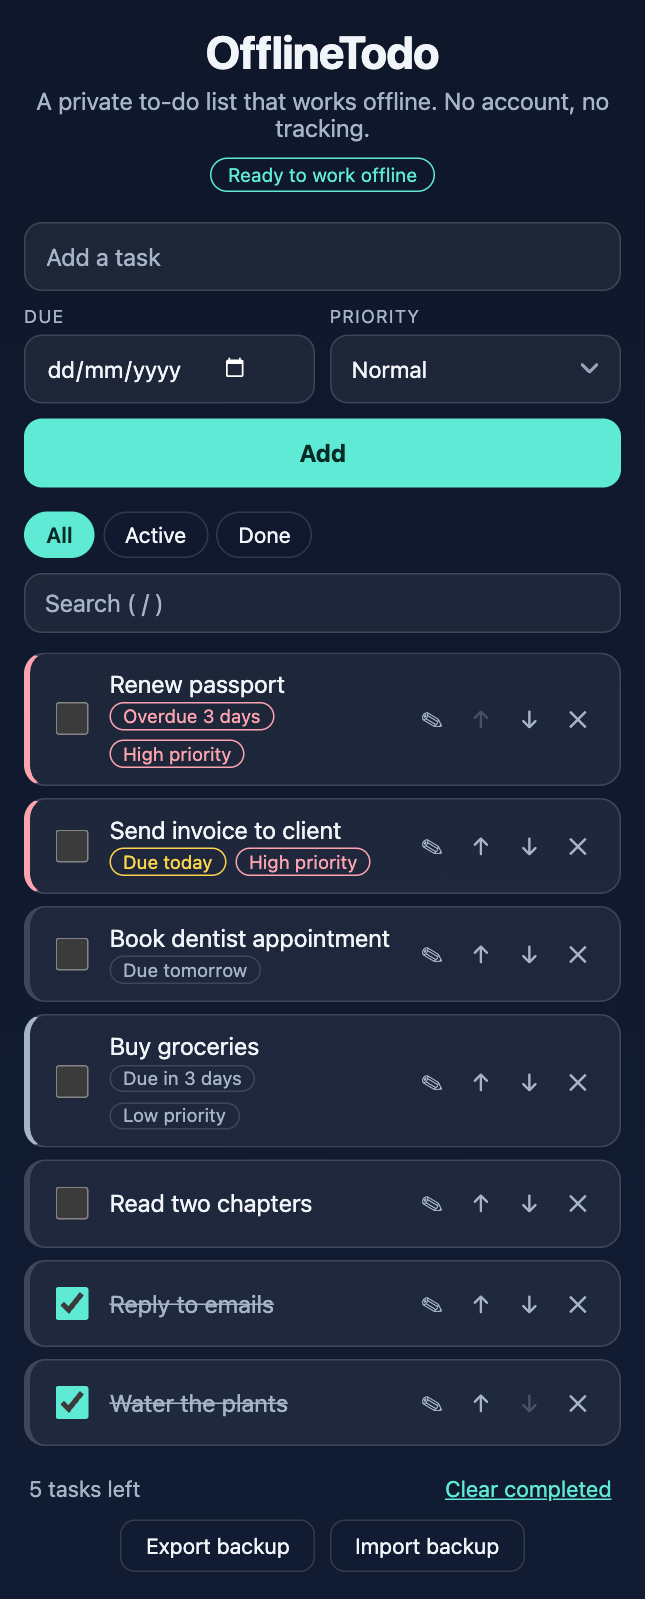
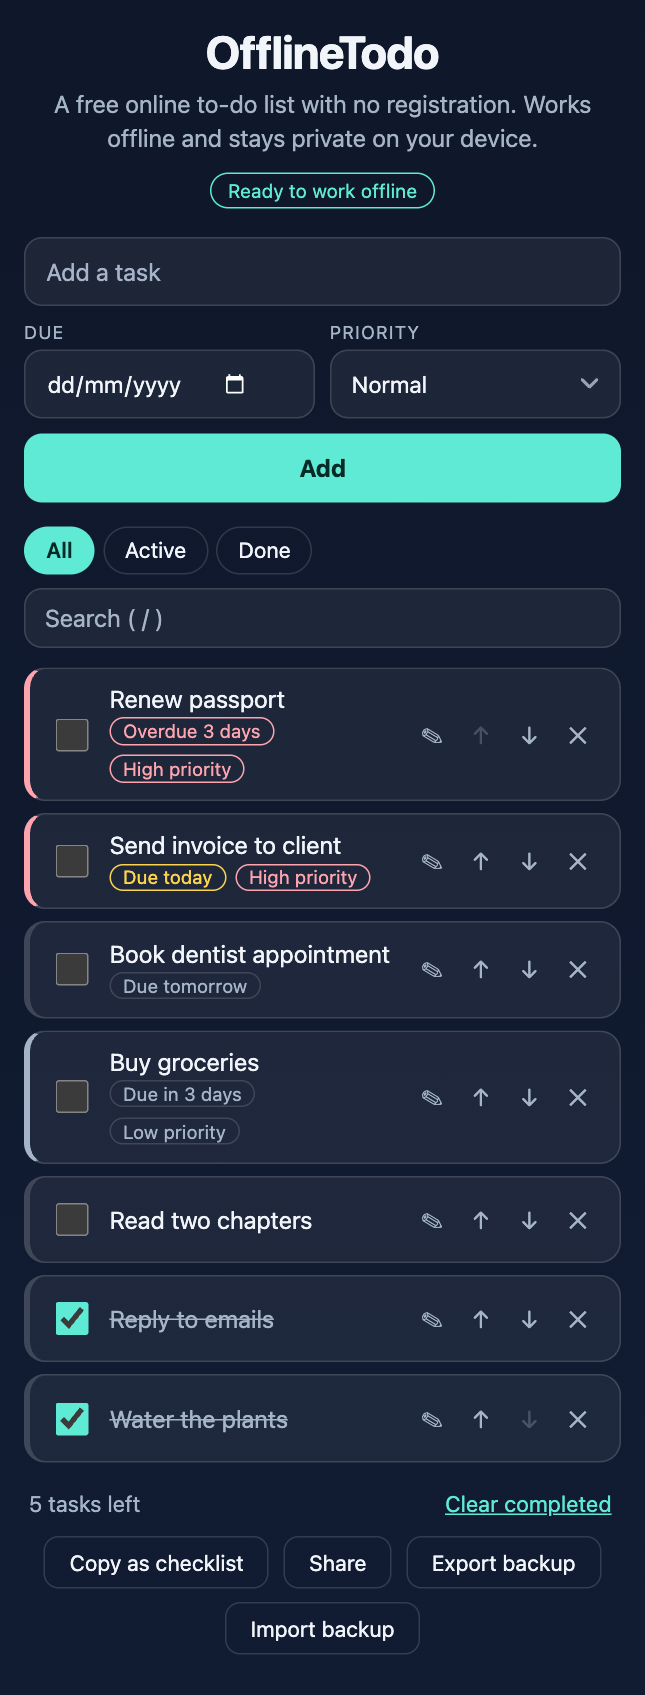
Add Copy as checklist and Share; keyword-focused title, tagline, FAQ and structured data

diff --git a/index.html b/index.html
@@ -4,8 +4,8 @@
 <head>
     <meta charset="UTF-8">
     <meta name="viewport" content="width=device-width, initial-scale=1.0">
-    <title>OfflineTodo: Private To-Do List That Works Offline</title>
-    <meta name="description" content="A free to-do list that works offline and keeps your tasks private on your device. No account, no ads, no tracking. Due dates, priorities, backup and install.">
+    <title>Free To-Do List, No Registration, Works Offline | OfflineTodo</title>
+    <meta name="description" content="Free online to-do list with no registration. Works offline and keeps your tasks private on your device. Due dates, priorities, backup and share. No ads.">
     <link rel="canonical" href="https://umar8092.github.io/offlinetodo/">
     <link rel="icon" href="favicon.svg" type="image/svg+xml">
     <link rel="apple-touch-icon" href="icons/apple-touch-icon.png">
@@ -15,13 +15,13 @@
     <meta property="og:site_name" content="OfflineTodo">
     <meta property="og:locale" content="en_US">
     <meta property="og:url" content="https://umar8092.github.io/offlinetodo/">
-    <meta property="og:title" content="OfflineTodo: Private To-Do List That Works Offline">
-    <meta property="og:description" content="A free to-do list that works offline and keeps your tasks private on your device. No account, no ads, no tracking.">
+    <meta property="og:title" content="Free To-Do List, No Registration, Works Offline | OfflineTodo">
+    <meta property="og:description" content="A free online to-do list with no registration. Works offline and keeps your tasks private on your device. No ads, no tracking.">
     <meta property="og:image" content="https://umar8092.github.io/offlinetodo/screenshots/social.png">
     <meta property="og:image:alt" content="OfflineTodo: a private to-do list with tasks, due dates and priorities">
     <meta name="twitter:card" content="summary_large_image">
-    <script type="application/ld+json">{"@context":"https://schema.org","@type":"WebApplication","name":"OfflineTodo","alternateName":["OfflineTodo Private To-Do List","Offline To-Do List"],"url":"https://umar8092.github.io/offlinetodo/","description":"A free to-do list that works offline and keeps tasks private on your device, with due dates, priorities, search, backup and import.","applicationCategory":"ProductivityApplication","operatingSystem":"Any","browserRequirements":"Requires a modern browser","isAccessibleForFree":true,"keywords":"offline to-do list, private to-do list, to-do list no account, local task list, installable to-do app, task list that works offline","offers":{"@type":"Offer","price":"0","priceCurrency":"USD"},"license":"https://opensource.org/licenses/MIT","author":{"@type":"Person","name":"Muhammad Umar","url":"https://github.com/umar8092"}}</script>
-    <script type="application/ld+json">{"@context":"https://schema.org","@type":"FAQPage","mainEntity":[{"@type":"Question","name":"Does this to-do list work without internet?","acceptedAnswer":{"@type":"Answer","text":"Yes. After the first visit the app is saved in your browser, so it opens and works with no connection. You can add, edit and finish tasks offline."}},{"@type":"Question","name":"Where are my tasks stored?","acceptedAnswer":{"@type":"Answer","text":"Only on your own device, in your browser's local storage. Nothing is sent to a server, and there is no account, no sign-up and no tracking."}},{"@type":"Question","name":"Can I install it on my phone or computer?","acceptedAnswer":{"@type":"Answer","text":"Yes. In Chrome, Edge or Safari, use the browser's install or Add to Home Screen option. It then opens like a normal app and works offline."}},{"@type":"Question","name":"How do I back up my tasks or move them to another device?","acceptedAnswer":{"@type":"Answer","text":"Use Export to save your tasks as a file, then use Import on the other device. Because tasks live only on your device, a backup file is the way to move or protect them."}},{"@type":"Question","name":"What happens if I clear my browser data?","acceptedAnswer":{"@type":"Answer","text":"Your tasks are deleted along with it, because they are stored in the browser. Export a backup now and then to be safe."}},{"@type":"Question","name":"Is OfflineTodo free?","acceptedAnswer":{"@type":"Answer","text":"Yes. It is free and open source under the MIT license, with no ads."}}]}</script>
+    <script type="application/ld+json">{"@context":"https://schema.org","@type":"WebApplication","name":"OfflineTodo","alternateName":["OfflineTodo Free Online To-Do List","Offline To-Do List","To-Do List No Registration"],"url":"https://umar8092.github.io/offlinetodo/","description":"A free online to-do list with no registration. Works offline and keeps tasks private on your device, with due dates, priorities, search, backup, import and share.","applicationCategory":"ProductivityApplication","operatingSystem":"Any","browserRequirements":"Requires a modern browser","isAccessibleForFree":true,"keywords":"free online to-do list, to-do list no registration, offline to-do list, private to-do list, to-do list no account, installable to-do app, checklist maker","offers":{"@type":"Offer","price":"0","priceCurrency":"USD"},"license":"https://opensource.org/licenses/MIT","author":{"@type":"Person","name":"Muhammad Umar","url":"https://github.com/umar8092"}}</script>
+    <script type="application/ld+json">{"@context":"https://schema.org","@type":"FAQPage","mainEntity":[{"@type":"Question","name":"Do I need to register or create an account?","acceptedAnswer":{"@type":"Answer","text":"No. There is no registration, no sign-up and no login. Open the page and start adding tasks. Your list is saved on your device."}},{"@type":"Question","name":"Does this to-do list work without internet?","acceptedAnswer":{"@type":"Answer","text":"Yes. After the first visit the app is saved in your browser, so it opens and works with no connection. You can add, edit and finish tasks offline."}},{"@type":"Question","name":"Where are my tasks stored?","acceptedAnswer":{"@type":"Answer","text":"Only on your own device, in your browser's local storage. Nothing is sent to a server, and there is no account, no sign-up and no tracking."}},{"@type":"Question","name":"Can I install it on my phone or computer?","acceptedAnswer":{"@type":"Answer","text":"Yes. In Chrome, Edge or Safari, use the browser's install or Add to Home Screen option. It then opens like a normal app and works offline."}},{"@type":"Question","name":"Can I copy my list to Notes, Keep or another app?","acceptedAnswer":{"@type":"Answer","text":"Yes. Use Copy as checklist to copy your tasks as plain text, one per line, ready to paste anywhere. On a phone, the Share button sends the list straight to Notes, Keep, Messages or any other app."}},{"@type":"Question","name":"How do I back up my tasks or move them to another device?","acceptedAnswer":{"@type":"Answer","text":"Use Export backup to save your tasks as a file, then use Import backup on the other device. Because tasks live only on your device, a backup file is the way to move or protect them."}},{"@type":"Question","name":"What happens if I clear my browser data?","acceptedAnswer":{"@type":"Answer","text":"Your tasks are deleted along with it, because they are stored in the browser. Export a backup now and then to be safe."}},{"@type":"Question","name":"Is OfflineTodo free?","acceptedAnswer":{"@type":"Answer","text":"Yes. It is free and open source under the MIT license, with no ads."}}]}</script>
     <link rel="stylesheet" href="style.css">
 </head>
 
@@ -30,7 +30,7 @@
         <div class="app">
             <header>
                 <h1>OfflineTodo</h1>
-                <p class="sub">A private to-do list that works offline. No account, no tracking.</p>
+                <h2 class="sub">A free online to-do list with no registration. Works offline and stays private on your device.</h2>
                 <p id="pill" class="pill" role="status" aria-live="polite">Saved on this device</p>
             </header>
 
@@ -71,6 +71,8 @@
             </div>
 
             <div class="backup">
+                <button type="button" id="copy">Copy as checklist</button>
+                <button type="button" id="share" hidden>Share</button>
                 <button type="button" id="export">Export backup</button>
                 <button type="button" id="import-btn">Import backup</button>
                 <input id="import-file" type="file" accept="application/json,.json" hidden>
@@ -81,14 +83,20 @@
             <h2 id="why-title">Why OfflineTodo</h2>
             <ul class="uses">
                 <li><strong>Works offline</strong> After your first visit it opens and works with no connection.</li>
-                <li><strong>Private by design</strong> Your tasks stay on your device. No account, no servers, no tracking, no ads.</li>
+                <li><strong>No registration</strong> Start using it right away. No account, no email, no password.</li>
+                <li><strong>Private by design</strong> Your tasks stay on your device. No servers, no tracking, no ads.</li>
                 <li><strong>Installable</strong> Add it to your home screen or desktop and it opens like a normal app.</li>
                 <li><strong>Simple but capable</strong> Due dates, priorities, search, filters, reordering and undo.</li>
                 <li><strong>Yours to keep</strong> Export your tasks to a file any time, and import them anywhere.</li>
+                <li><strong>Easy to share</strong> Copy your list as a checklist, or send it to Notes, Keep or any app from your phone's share menu.</li>
             </ul>
 
             <h2>Questions</h2>
             <div class="faq">
+                <details>
+                    <summary>Do I need to register or create an account?</summary>
+                    <p>No. There is no registration, no sign-up and no login. Open the page and start adding tasks. Your list is saved on your device.</p>
+                </details>
                 <details>
                     <summary>Does this to-do list work without internet?</summary>
                     <p>Yes. After the first visit the app is saved in your browser, so it opens and works with no connection. You can add, edit and finish tasks offline.</p>
@@ -102,8 +110,12 @@
                     <p>Yes. In Chrome, Edge or Safari, use the browser's install or Add to Home Screen option. It then opens like a normal app and works offline.</p>
                 </details>
                 <details>
+                    <summary>Can I copy my list to Notes, Keep or another app?</summary>
+                    <p>Yes. Use Copy as checklist to copy your tasks as plain text, one per line, ready to paste anywhere. On a phone, the Share button sends the list straight to Notes, Keep, Messages or any other app.</p>
+                </details>
+                <details>
                     <summary>How do I back up my tasks or move them to another device?</summary>
-                    <p>Use Export to save your tasks as a file, then use Import on the other device. Because tasks live only on your device, a backup file is the way to move or protect them.</p>
+                    <p>Use Export backup to save your tasks as a file, then use Import backup on the other device. Because tasks live only on your device, a backup file is the way to move or protect them.</p>
                 </details>
                 <details>
                     <summary>What happens if I clear my browser data?</summary>

diff --git a/script.js b/script.js
@@ -206,6 +206,37 @@
         }
     });
 
+    // ----- copy and share the list as a checklist (whatever the filter and search are showing) -----
+    async function copyText(text) {
+        try { await navigator.clipboard.writeText(text); return true; } catch (e) { /* fall back below */ }
+        const box = el('textarea');          // older browsers, or pages the browser will not give clipboard access
+        box.value = text;
+        box.setAttribute('readonly', '');
+        box.style.cssText = 'position:fixed;opacity:0;top:0;left:0';
+        document.body.append(box);
+        box.select();
+        let ok = false;
+        try { ok = document.execCommand('copy'); } catch (e) { /* ok stays false */ }
+        box.remove();
+        return ok;
+    }
+    const checklist = () => TodoCore.toChecklist(TodoCore.visible(tasks, filter, query));
+    $('copy').addEventListener('click', async () => {
+        const text = checklist();
+        if (!text) return toast('Nothing to copy.');
+        const n = text.split('\n').length;
+        toast(await copyText(text) ? `Copied ${n} task${n === 1 ? '' : 's'} as a checklist.` : 'Could not copy. Your browser blocked it.');
+    });
+    if (navigator.share) {
+        $('share').hidden = false;
+        $('share').addEventListener('click', async () => {
+            const text = checklist();
+            if (!text) return toast('Nothing to share.');
+            try { await navigator.share({ title: 'My to-do list', text }); }
+            catch (e) { if (e.name !== 'AbortError') toast('Could not share.'); }   // closing the share sheet is not an error
+        });
+    }
+
     // ----- backup -----
     $('export').addEventListener('click', () => {
         if (!tasks.length) return toast('Nothing to export yet.');

diff --git a/style.css b/style.css
@@ -47,7 +47,7 @@ body {
 
 header { text-align: center; margin-bottom: 1.2rem; }
 h1 { margin: 0; font-size: 1.9rem; letter-spacing: -.02em; }
-.sub { margin: .35rem 0 .7rem; color: var(--muted); }
+.sub { margin: .35rem 0 .7rem; color: var(--muted); font-size: 1rem; font-weight: 400; line-height: 1.45; }
 .pill { display: inline-block; margin: 0; padding: .2rem .7rem; border-radius: 999px; font-size: .8rem; border: 1px solid var(--line); color: var(--muted); }
 .pill.ok { color: var(--accent); border-color: var(--accent); }
 
@@ -136,7 +136,7 @@ button.primary:hover { filter: brightness(1.08); }
 button.link { border: 0; background: none; color: var(--accent); cursor: pointer; text-decoration: underline; padding: .2rem; }
 button.link:disabled { color: var(--muted); text-decoration: none; cursor: default; opacity: .6; }
 
-.backup { display: flex; justify-content: center; gap: .6rem; margin-top: .6rem; }
+.backup { display: flex; flex-wrap: wrap; justify-content: center; gap: .6rem; margin-top: .6rem; }
 .backup button { padding: .5rem 1rem; border-radius: 10px; border: 1px solid var(--line); background: transparent; cursor: pointer; font-size: .9rem; }
 .backup button:hover { background: var(--card); }
 

diff --git a/test.html b/test.html
@@ -65,6 +65,14 @@ check('Search ignores case and spaces around', ids(C.visible(mix, 'all', '  BUY 
 check('Search and filter combine', ids(C.visible(mix, 'done', 'buy')) === 'Buy bread');
 check('Counts are right', (c => c.active === 1 && c.done === 2)(C.counts(mix)));
 
+// checklist text
+const cl = C.toChecklist([t('Buy milk', { due: '2026-06-11', priority: 2 }), t('Call mum', { done: true }), t('Water plants', { priority: 0 }), t('Two\nlines')]).split('\n');
+check('Checklist: an open task is "- [ ]" with due date and priority', cl[0] === '- [ ] Buy milk (due 2026-06-11, high priority)');
+check('Checklist: a done task is "- [x]"', cl[1] === '- [x] Call mum');
+check('Checklist: low priority is noted, normal is not', cl[2] === '- [ ] Water plants (low priority)');
+check('Checklist: line breaks inside a task never split it into two lines', cl.length === 4 && cl[3] === '- [ ] Two lines');
+check('Checklist: an empty list gives empty text', C.toChecklist([]) === '');
+
 const out = document.getElementById('out');
 results.forEach(r => {
     const li = document.createElement('li');

diff --git a/core.js b/core.js
@@ -89,5 +89,16 @@
         return { done, active: list.length - done };
     }
 
-    root.TodoCore = { MAX_TEXT, uid, normalizeTask, parseImport, exportJSON, dueInfo, place, visible, counts };
+    // A plain-text checklist, one task per line. Pastes into Notes, Keep, Notion, Obsidian and most other apps.
+    function toChecklist(list) {
+        return list.map(t => {
+            const extra = [];
+            if (t.due) extra.push('due ' + t.due);
+            if (t.priority === 2) extra.push('high priority');
+            if (t.priority === 0) extra.push('low priority');
+            return '- [' + (t.done ? 'x' : ' ') + '] ' + t.text.replace(/\s*[\r\n]+\s*/g, ' ') + (extra.length ? ' (' + extra.join(', ') + ')' : '');
+        }).join('\n');
+    }
+
+    root.TodoCore = { MAX_TEXT, uid, normalizeTask, parseImport, exportJSON, toChecklist, dueInfo, place, visible, counts };
 })(window);

diff --git a/README.md b/README.md
@@ -1,6 +1,6 @@
 # OfflineTodo
 
-A free **private to-do list that works offline**. No account, no ads, no tracking. Your tasks stay on your own device.
+A **free online to-do list with no registration**. It works offline, it's private, and your tasks stay on your own device. No account, no ads, no tracking.
 
 **Live demo:** [umar8092.github.io/offlinetodo](https://umar8092.github.io/offlinetodo/)
 
@@ -13,6 +13,7 @@ The app follows your device's light or dark setting.
 ## Features
 
 - **Works offline.** After the first visit it opens and works with no connection.
+- **No registration.** No account, email or password. Open it and start.
 - **Private.** Tasks are saved only in your browser. Nothing is sent anywhere, and the app makes no network requests except loading its own files.
 - **Installable.** Add it to your home screen or desktop and it opens like a normal app.
 - **Due dates** with labels like "Due today", "Due tomorrow" and "Overdue 3 days".
@@ -21,6 +22,7 @@ The app follows your device's light or dark setting.
 - **Reorder** by dragging, or with the up and down buttons (works on touch screens).
 - **Edit** a task in place.
 - **Undo** after deleting a task, clearing completed tasks or importing a backup.
+- **Copy as checklist** or **Share** your list as plain text (`- [ ] task`, one per line) that pastes into Notes, Keep, Notion, Obsidian and more. On phones, Share opens the system share menu. It copies what you are looking at, so a filter or search applies.
 - **Export and import** your tasks as a file, to back them up or move them to another device.
 - **Keyboard friendly.** Enter adds a task, `/` jumps to search, Esc cancels an edit.
 
